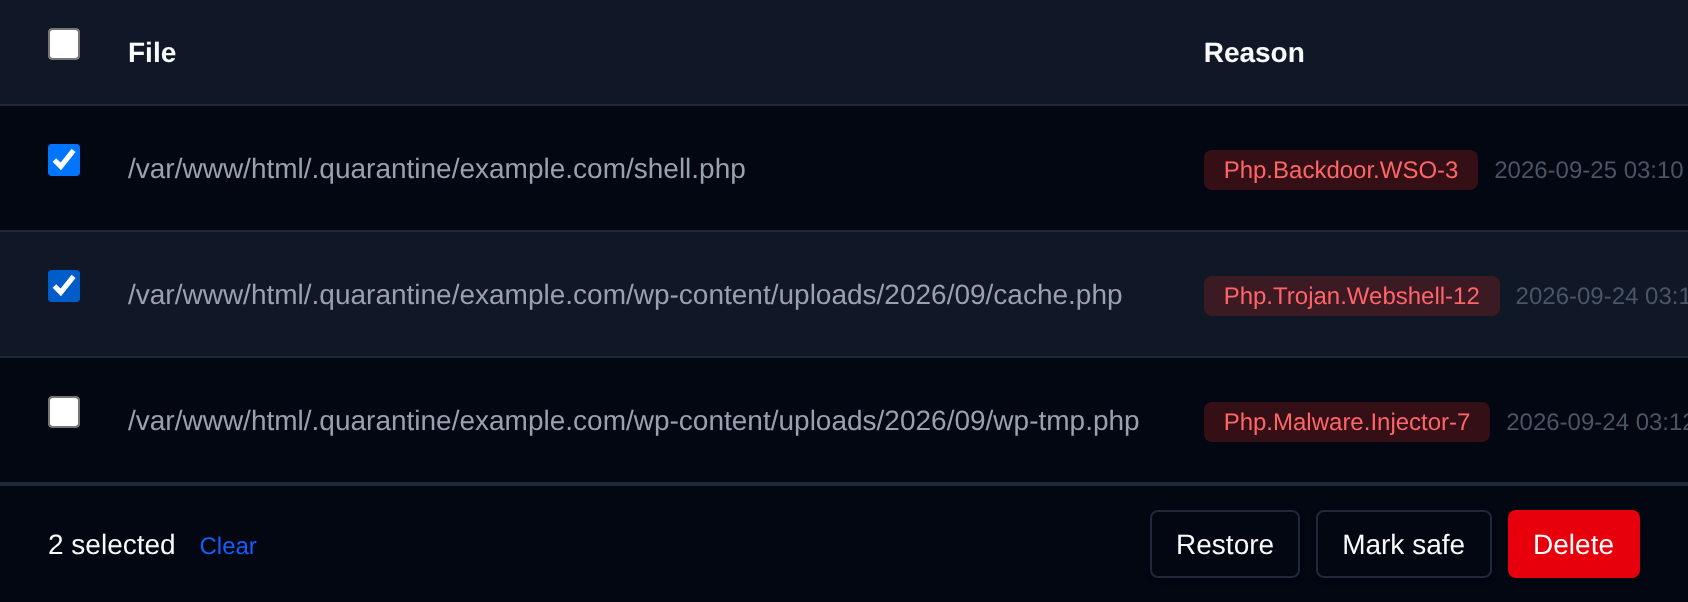
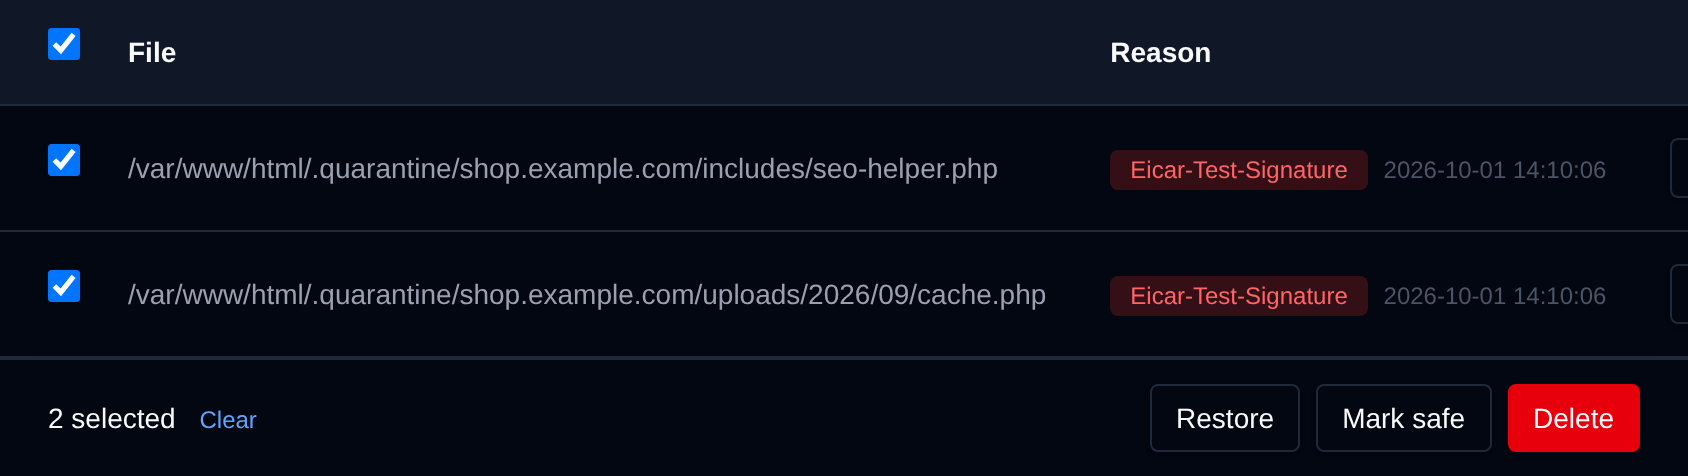
bug fix on malware scan picking up quaranitne fiels again, udpate docs

diff --git a/openpanel/internal/web/templates/files/clamav/scan_logs.html b/openpanel/internal/web/templates/files/clamav/scan_logs.html
@@ -38,7 +38,7 @@
                         <th scope="col" class="whitespace-nowrap border-b px-4 py-3.5 text-left text-sm font-semibold text-gray-900 dark:text-gray-50 border-gray-200 dark:border-gray-800">{{.T.Get "Started"}}</th>
                         <th scope="col" class="whitespace-nowrap border-b px-4 py-3.5 text-left text-sm font-semibold text-gray-900 dark:text-gray-50 border-gray-200 dark:border-gray-800">{{.T.Get "Source"}}</th>
                         <th scope="col" class="whitespace-nowrap border-b px-4 py-3.5 text-left text-sm font-semibold text-gray-900 dark:text-gray-50 border-gray-200 dark:border-gray-800">{{.T.Get "Directory"}}</th>
-                        <th scope="col" class="whitespace-nowrap border-b px-4 py-3.5 text-left text-sm font-semibold text-gray-900 dark:text-gray-50 border-gray-200 dark:border-gray-800">{{.T.Get "Files scanned"}}</th>
+                        <th scope="col" class="whitespace-nowrap border-b px-4 py-3.5 text-left text-sm font-semibold text-gray-900 dark:text-gray-50 border-gray-200 dark:border-gray-800">{{.T.Get "Files"}}</th>
                         <th scope="col" class="whitespace-nowrap border-b px-4 py-3.5 text-left text-sm font-semibold text-gray-900 dark:text-gray-50 border-gray-200 dark:border-gray-800">{{.T.Get "Result"}}</th>
                         <th scope="col" class="whitespace-nowrap border-b px-4 py-3.5 text-right text-sm font-semibold text-gray-900 dark:text-gray-50 border-gray-200 dark:border-gray-800"></th>
                     </tr>
@@ -48,18 +48,18 @@
                     <tr class="sm:[&_td:last-child]:pr-6 sm:[&_td:first-child]:pl-6 hover:bg-white dark:hover:bg-gray-900">
                         <td class="whitespace-nowrap p-4 text-sm text-gray-600 dark:text-gray-400">
                             {{.StartedAt}}
-                            {{if .FinishedAt}}<span class="block text-xs text-gray-400 dark:text-gray-600">{{$.T.Get "finished"}} {{.FinishedAt}}</span>{{end}}
+                            {{with .Duration}}<span class="block text-xs text-gray-400 dark:text-gray-600">{{$.T.Get "took"}} {{.}}</span>{{end}}
                         </td>
                         <td class="whitespace-nowrap p-4 text-sm">
                             {{if eq .Source "cron"}}
-                            <span class="bg-purple-100 text-purple-800 text-xs font-medium inline-flex items-center px-2.5 py-0.5 rounded dark:bg-purple-900/40 dark:text-purple-300">{{$.T.Get "Scheduled"}}</span>
+                            <span class="bg-purple-100 text-purple-800 text-xs font-medium inline-flex items-center px-2.5 py-0.5 rounded dark:bg-purple-900 dark:text-purple-300">{{$.T.Get "Scheduled"}}</span>
                             {{else if eq .Source "api"}}
                             <span class="bg-gray-100 text-gray-800 text-xs font-medium inline-flex items-center px-2.5 py-0.5 rounded dark:bg-gray-700 dark:text-gray-300">API</span>
                             {{else}}
-                            <span class="bg-blue-100 text-blue-800 text-xs font-medium inline-flex items-center px-2.5 py-0.5 rounded dark:bg-blue-900/40 dark:text-blue-300">{{$.T.Get "Manual"}}</span>
+                            <span class="bg-blue-100 text-blue-800 text-xs font-medium inline-flex items-center px-2.5 py-0.5 rounded dark:bg-blue-900 dark:text-blue-300">{{$.T.Get "Manual"}}</span>
                             {{end}}
                         </td>
-                        <td class="p-4 text-sm text-gray-600 dark:text-gray-400 break-all">{{.Path}}</td>
+                        <td style="word-break: break-all;" class="p-4 text-sm text-gray-600 dark:text-gray-400">{{.Path}}</td>
                         <td class="whitespace-nowrap p-4 text-sm text-gray-600 dark:text-gray-400">{{.Scanned}}</td>
                         <td class="whitespace-nowrap p-4 text-sm">
                             {{if eq .Status "failed"}}
@@ -67,9 +67,9 @@
                             {{else if .Infected}}
                             <span class="bg-red-100 text-red-800 text-xs font-medium inline-flex items-center px-2.5 py-0.5 rounded dark:bg-red-900/40 dark:text-red-400">{{.Infected}} {{$.T.Get "infected"}}</span>
                             {{else}}
-                            <span class="bg-green-100 text-green-800 text-xs font-medium inline-flex items-center px-2.5 py-0.5 rounded dark:bg-green-900/40 dark:text-green-400">{{$.T.Get "Clean"}}</span>
+                            <span class="bg-green-100 text-green-800 text-xs font-medium inline-flex items-center px-2.5 py-0.5 rounded dark:bg-green-900 dark:text-green-400">{{$.T.Get "Clean"}}</span>
                             {{end}}
-                            {{if .Errors}}<span class="ml-1 bg-yellow-100 text-yellow-800 text-xs font-medium inline-flex items-center px-2.5 py-0.5 rounded dark:bg-yellow-900/40 dark:text-yellow-300">{{.Errors}} {{$.T.Get "errors"}}</span>{{end}}
+                            {{if .Errors}}<span class="ml-1 bg-yellow-100 text-yellow-800 text-xs font-medium inline-flex items-center px-2.5 py-0.5 rounded dark:bg-yellow-900 dark:text-yellow-300">{{.Errors}} {{$.T.Get "errors"}}</span>{{end}}
                             {{if eq .Status "aborted"}}<span class="ml-1 bg-gray-100 text-gray-800 text-xs font-medium inline-flex items-center px-2.5 py-0.5 rounded dark:bg-gray-700 dark:text-gray-300">{{$.T.Get "Stopped early"}}</span>{{end}}
                         </td>
                         <td class="whitespace-nowrap p-4 text-sm text-right">
@@ -85,8 +85,14 @@
                         <td colspan="6" class="px-4 pb-4 sm:px-6">
                             {{if .Message}}<p class="mb-2 text-sm text-red-600 dark:text-red-400">{{.Message}}</p>{{end}}
                             {{if .Findings}}
-                            <pre class="fs-xs m-0 p-2 border rounded dark:border-gray-800 text-gray-700 dark:text-gray-300" style="max-height: 20rem; overflow-y: auto; white-space: pre-wrap; word-break: break-all;">{{range .Findings}}{{.Path}} - {{.Result}}
-{{end}}</pre>
+                            <ul style="max-height: 20rem;" class="overflow-y-auto divide-y divide-gray-200 rounded border border-gray-200 dark:divide-gray-800 dark:border-gray-800">
+                                {{range .Findings}}
+                                <li class="px-3 py-2 text-xs">
+                                    <span style="word-break: break-all;" class="block font-mono text-gray-900 dark:text-gray-50">{{.Path}}</span>
+                                    <span class="block mt-0.5 {{if hasPrefix .Result "Malware detected"}}text-red-700 dark:text-red-400{{else}}text-yellow-700 dark:text-yellow-300{{end}}">{{.Result}}</span>
+                                </li>
+                                {{end}}
+                            </ul>
                             {{if .Truncated}}<p class="mt-1 text-xs text-gray-400 dark:text-gray-600">{{$.T.Get "Only the first 500 files are listed."}}</p>{{end}}
                             {{end}}
                         </td>

diff --git a/openpanel/internal/web/templates/files/clamav/scanner.html b/openpanel/internal/web/templates/files/clamav/scanner.html
@@ -103,7 +103,7 @@
               <circle cx="24" cy="24" fill="#5A8A6E" r="2.6"></circle>
             </svg>
         </div>
-        <p class="min-w-0 break-all text-sm text-gray-600 dark:text-gray-400">
+        <p style="word-break: break-all;" class="min-w-0 text-sm text-gray-600 dark:text-gray-400">
             <span id="scan-progress-count">0</span> {{.T.Get "files scanned"}} &mdash;
             <span id="scan-progress-current"></span>
         </p>
@@ -134,11 +134,13 @@
     let scanLineBuffer = '';
     let scannedCount = 0;
     let malwareCount = 0;
+    let scanError = '';
 
     function resetScanUI() {
         scanLineBuffer = '';
         scannedCount = 0;
         malwareCount = 0;
+        scanError = '';
         document.getElementById('scan-results').textContent = '';
         document.getElementById('scan-progress-count').textContent = '0';
         document.getElementById('scan-progress-current').textContent = '';
@@ -168,6 +170,12 @@
             return;
         }
 
+        if (line.startsWith('Error: ')) {
+            scanError = line.slice(7);
+            appendScanResult(i18n.scanFailed + scanError);
+            return;
+        }
+
         scannedCount++;
         document.getElementById('scan-progress-count').textContent = scannedCount;
         document.getElementById('scan-progress-current').textContent = line;
@@ -184,6 +192,11 @@
         document.getElementById('scan-radar').style.display = 'none';
         document.getElementById('scan-progress').style.display = 'none';
         const msg = document.getElementById('scan-complete-message');
+        if (scanError) {
+            msg.style.display = 'none';
+            if (typeof showToast === 'function') showToast(i18n.scanFailed + scanError, 'error');
+            return;
+        }
         const summary = `${i18n.scanComplete} ${scannedCount} ${i18n.filesScanned}`;
         msg.textContent = summary;
         msg.style.display = 'block';

diff --git a/openpanel/internal/modules/malwarescan/malwarescan.go b/openpanel/internal/modules/malwarescan/malwarescan.go
@@ -146,25 +146,43 @@ func handleStartScan(a *appctx.App, w http.ResponseWriter, r *http.Request) {
 		return
 	}
 
-	if !clamavRunning(ctx) {
-		w.Header().Set("Content-Type", "text/plain")
-		_, _ = w.Write([]byte("ClamAV is not running, please contact your administrator."))
-		return
-	}
-
 	_ = logger.RecordUserAction(a.Config, username, "initiated a Malware Scan for "+requestedPath, reqip.ClientIP(r))
 
 	w.Header().Set("Content-Type", "text/plain")
 	flusher, canFlush := w.(http.Flusher)
 
 	entry := ScanLog{StartedAt: time.Now().Format("2006-01-02 15:04:05"), Source: "panel", Path: requestedPath, Status: "completed"}
+	writeLog := func() {
+		entry.FinishedAt = time.Now().Format("2006-01-02 15:04:05")
+		if logErr := appendScanLog(username, entry); logErr != nil {
+			log.Printf("MALWARE_SCAN - failed to write scan log for %s: %v", username, logErr)
+		}
+	}
+	// "Error: " lines tell scanner.html the scan never ran
+	fail := func(msg string) {
+		entry.Status, entry.Message = "failed", msg
+		_, _ = fmt.Fprintf(w, "Error: %s\n", msg)
+		writeLog()
+	}
+
+	if !clamavRunning(ctx) {
+		fail("ClamAV is not running, please contact your administrator.")
+		return
+	}
 
 	_ = filepath.WalkDir(actualPath, func(path string, d os.DirEntry, walkErr error) error {
 		if ctx.Err() != nil {
 			return filepath.SkipAll
 		}
-		if walkErr != nil || d.IsDir() {
+		if walkErr != nil {
 			return nil //nolint:nilerr // skip unreadable entries silently and continue the scan
+		}
+		if d.IsDir() {
+			// already quarantined files would just get flagged again, malware_scan.sh skips it too
+			if path == quarantineDirForUser(userContext) {
+				return filepath.SkipDir
+			}
+			return nil
 		}
 		relFilePath := strings.TrimPrefix(path, userHomePrefix)
 		displayFilePath := filepath.Join(allowedRoot, relFilePath)
@@ -176,6 +194,11 @@ func handleStartScan(a *appctx.App, w http.ResponseWriter, r *http.Request) {
 
 		result := scanFile(ctx, path)
 		if ctx.Err() != nil {
+			return filepath.SkipAll
+		}
+		// clamd still loading its database or down, no point erroring on every remaining file
+		if entry.Scanned == 0 && strings.HasPrefix(result, "Connection to ClamAV container failed") {
+			entry.Message = result
 			return filepath.SkipAll
 		}
 		entry.Scanned++
@@ -196,18 +219,19 @@ func handleStartScan(a *appctx.App, w http.ResponseWriter, r *http.Request) {
 		}
 		return nil
 	})
-	if entry.Scanned == 0 && ctx.Err() == nil {
+	if entry.Scanned == 0 && ctx.Err() == nil && entry.Message == "" {
 		_, _ = w.Write([]byte("No files found to scan.\n"))
 	}
 
+	if entry.Message != "" {
+		fail(entry.Message)
+		return
+	}
 	// user closed the tab or navigated away mid-scan
 	if ctx.Err() != nil {
 		entry.Status = "aborted"
 	}
-	entry.FinishedAt = time.Now().Format("2006-01-02 15:04:05")
-	if logErr := appendScanLog(username, entry); logErr != nil {
-		log.Printf("MALWARE_SCAN - failed to write scan log for %s: %v", username, logErr)
-	}
+	writeLog()
 }
 
 // clamavRunning checks the clamav container exists and is up so we can bail before walking every file

diff --git a/openpanel/internal/modules/malwarescan/scanlog.go b/openpanel/internal/modules/malwarescan/scanlog.go
@@ -3,9 +3,11 @@ package malwarescan
 import (
 	"bufio"
 	"encoding/json"
+	"fmt"
 	"os"
 	"path/filepath"
 	"strings"
+	"time"
 )
 
 // ScanLog is one finished scan, written as a json line by both the panel's /start-scan and opencli's files/malware_scan.sh
@@ -31,6 +33,24 @@ type ScanFinding struct {
 // Truncated is true when more files were flagged than fit in Findings
 func (l ScanLog) Truncated() bool {
 	return l.Infected+l.Errors > len(l.Findings)
+}
+
+// Duration is how long the scan ran, like "1m 22s", empty if a timestamp is missing
+func (l ScanLog) Duration() string {
+	start, err1 := time.ParseInLocation("2006-01-02 15:04:05", l.StartedAt, time.Local)
+	end, err2 := time.ParseInLocation("2006-01-02 15:04:05", l.FinishedAt, time.Local)
+	if err1 != nil || err2 != nil || end.Before(start) {
+		return ""
+	}
+	d := end.Sub(start)
+	switch {
+	case d < time.Minute:
+		return fmt.Sprintf("%ds", int(d.Seconds()))
+	case d < time.Hour:
+		return fmt.Sprintf("%dm %ds", int(d.Minutes()), int(d.Seconds())%60)
+	default:
+		return fmt.Sprintf("%dh %dm", int(d.Hours()), int(d.Minutes())%60)
+	}
 }
 
 const (

diff --git a/openpanel/internal/modules/malwarescan/api.go b/openpanel/internal/modules/malwarescan/api.go
@@ -8,6 +8,7 @@ import (
 	"os"
 	"os/exec"
 	"path/filepath"
+	"regexp"
 	"strconv"
 	"strings"
 	"time"
@@ -120,7 +121,7 @@ func apiMalwareScan(a *appctx.App, w http.ResponseWriter, r *http.Request) {
 		}
 	}
 
-	out, runErr := exec.CommandContext(ctx, "podman", "exec", "clamav", "clamscan", "-r", actualPath).CombinedOutput()
+	out, runErr := exec.CommandContext(ctx, "podman", "exec", "clamav", "clamscan", "-r", "--exclude-dir=^"+regexp.QuoteMeta(quarantineDirForUser(userContext)), actualPath).CombinedOutput()
 	if ctx.Err() == context.DeadlineExceeded {
 		entry.Status, entry.Message = "failed", "Scan timed out after 300 seconds"
 		writeLog()

diff --git a/openpanel/internal/modules/malwarescan/scanlog_test.go b/openpanel/internal/modules/malwarescan/scanlog_test.go
@@ -62,3 +62,17 @@ func TestAPIFinding(t *testing.T) {
 		t.Errorf("unexpected finding: %+v", got)
 	}
 }
+
+func TestScanLogDuration(t *testing.T) {
+	cases := map[[2]string]string{
+		{"2026-10-01 14:10:26", "2026-10-01 14:11:48"}: "1m 22s",
+		{"2026-10-01 14:10:26", "2026-10-01 14:10:30"}: "4s",
+		{"2026-10-01 01:00:00", "2026-10-01 03:05:00"}: "2h 5m",
+		{"2026-10-01 14:10:26", ""}:                    "",
+	}
+	for in, want := range cases {
+		if got := (ScanLog{StartedAt: in[0], FinishedAt: in[1]}).Duration(); got != want {
+			t.Errorf("Duration(%v) = %q, want %q", in, got, want)
+		}
+	}
+}

diff --git a/website/docs/panel/security/malware-scanner.md b/website/docs/panel/security/malware-scanner.md
@@ -28,15 +28,15 @@ Automatic scans are configured by the server administrator. They also show up in
 
 Click **Scan Logs** to see your past scans, newest first: scans you started from this page, scans started through the API, and automatic scans run by the server.
 
-![Scan Logs page listing past scans with their date, source, directory, files scanned and result](/img/openpanel-screenshots/files/malware_logs-list.png#gh-light-mode-only)
-![Scan Logs page listing past scans with their date, source, directory, files scanned and result](/img/openpanel-screenshots/files/malware_logs-list_dark.png#gh-dark-mode-only)
+![Scan Logs page listing past scans with their date, source, directory, number of files and result](/img/openpanel-screenshots/files/malware_logs-list.png#gh-light-mode-only)
+![Scan Logs page listing past scans with their date, source, directory, number of files and result](/img/openpanel-screenshots/files/malware_logs-list_dark.png#gh-dark-mode-only)
 
 | Column | What it shows |
 |---|---|
-| **Started** | When the scan started, and below it when it finished. |
+| **Started** | When the scan started, and below it how long it took. |
 | **Source** | *Manual* for scans started from the Malware Scanner page, *Scheduled* for automatic scans, *API* for scans started through the API. |
 | **Directory** | The directory that was scanned. |
-| **Files scanned** | How many files were checked. |
+| **Files** | How many files were checked. |
 | **Result** | *Clean*, the number of infected files, or *Failed* if the scan could not run. *errors* shows how many files could not be checked, and *Stopped early* that the scan was stopped before it finished. |
 
 Click **Details** next to a scan to see the files with malware or errors it found. Automatic scans also show the malware name, and that the file was moved to quarantine.
